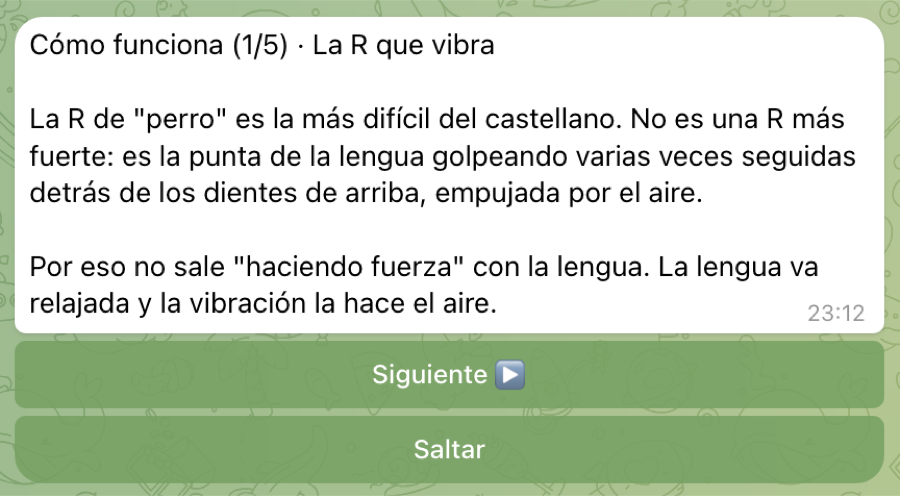
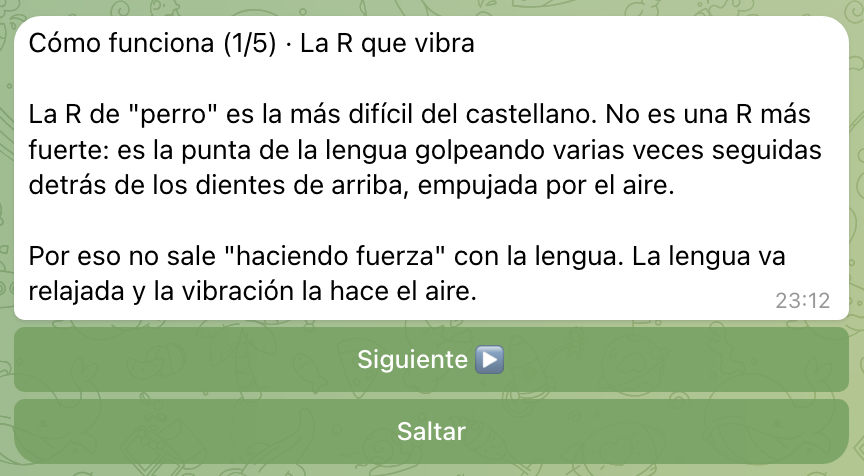
Landing: mostrar las capturas sin marco para evitar el efecto fantasma

diff --git a/site/index.html b/site/index.html
@@ -86,13 +86,12 @@ h1 em{font-style:normal;color:var(--accent)}
 .checks svg{flex:none;width:26px;height:26px;margin-top:1px;stroke:var(--accent);fill:none;stroke-width:2.4;stroke-linecap:round;stroke-linejoin:round}
 
 /* Capturas del bot */
-.shots{display:grid;gap:44px 36px;margin-top:56px}
+.shots{display:grid;gap:44px 36px;margin-top:56px;align-items:start}
 @media(min-width:760px){.shots{grid-template-columns:1fr 1fr}}
 .shot{margin:0}
 @media(min-width:760px){.shot:last-child:nth-child(odd){grid-column:1/-1;justify-self:center;width:calc(50% - 18px)}}
-.frame{height:500px;background:#a3bf94;border-radius:22px;display:flex;align-items:center;justify-content:center;
-  padding:18px;overflow:hidden;box-shadow:0 22px 40px -26px rgba(14,31,26,.55)}
-.frame img{display:block;max-width:100%;max-height:100%;width:auto;height:auto;border-radius:14px}
+.shotimg{display:block;width:100%;height:auto;border-radius:20px;box-shadow:0 22px 40px -26px rgba(14,31,26,.55)}
+.mockbg{background:#a3bf94;border-radius:20px;padding:22px 18px;display:flex;justify-content:center;box-shadow:0 22px 40px -26px rgba(14,31,26,.55)}
 .tgmock{width:100%;max-width:330px;font-size:.7rem;line-height:1.35;color:#000}
 .tgmock .bb{color:#2f7d5b;letter-spacing:-.04em}
 .tgbubble{background:#fff;border-radius:14px;padding:10px 12px 8px;white-space:pre-line;margin-bottom:5px;position:relative}
@@ -102,7 +101,6 @@ h1 em{font-style:normal;color:var(--accent)}
 .shot figcaption{margin-top:18px;color:var(--muted);font-size:1rem;line-height:1.55}
 .shot figcaption strong{display:block;color:var(--ink);font-size:1.15rem;margin-bottom:4px;letter-spacing:-.01em}
 .shots-note{margin:36px 0 0;text-align:center}
-@media(max-width:759px){.frame{height:auto;aspect-ratio:1/.9;padding:12px}}
 
 /* Email */
 .mail{text-align:center;max-width:680px;margin:0 auto}
@@ -218,27 +216,27 @@ footer a{color:#fff;font-weight:600;text-underline-offset:4px}
   <div class="wrap">
     <div class="shots">
       <figure class="shot">
-        <div class="frame"><img src="img/como-funciona.png" alt="Pantalla del bot que explica cómo funciona la R que vibra, con botones Siguiente y Saltar" loading="lazy"></div>
+        <img class="shotimg" src="img/como-funciona.png" alt="Pantalla del bot que explica cómo funciona la R que vibra, con botones Siguiente y Saltar" loading="lazy" width="900">
         <figcaption><strong>Primero entendés cómo funciona</strong>Cinco pantallas cortas explican qué hace la lengua en la R que vibra, antes de practicar.</figcaption>
       </figure>
       <figure class="shot">
-        <div class="frame"><img src="img/test.png" alt="Pantalla del bot con la pregunta del test inicial y cinco botones de respuesta" loading="lazy"></div>
+        <img class="shotimg" src="img/test.png" alt="Pantalla del bot con la pregunta del test inicial y cinco botones de respuesta" loading="lazy" width="900">
         <figcaption><strong>Un test para saber por dónde empezar</strong>Una pregunta sobre cómo te sale hoy la R, sin diagnóstico y con opción de saltarla.</figcaption>
       </figure>
       <figure class="shot">
-        <div class="frame"><img src="img/menu-hoy.png" alt="Menú del bot con la práctica de hoy, su objetivo y las nueve prácticas" loading="lazy"></div>
+        <img class="shotimg" src="img/menu-hoy.png" alt="Menú del bot con la práctica de hoy, su objetivo y las nueve prácticas" loading="lazy" width="900">
         <figcaption><strong>Cada día, una sola cosa para hacer</strong>La práctica de hoy con su objetivo, y las nueve prácticas siempre abiertas.</figcaption>
       </figure>
       <figure class="shot">
-        <div class="frame"><img src="img/practica.png" alt="Pantalla de la práctica 1 del bot con sílabas para repetir y botones Empecé, Ver teoría, Modo memoria y Si no sale" loading="lazy"></div>
+        <img class="shotimg" src="img/practica.png" alt="Pantalla de la práctica 1 del bot con sílabas para repetir y botones Empecé, Ver teoría, Modo memoria y Si no sale" loading="lazy" width="900">
         <figcaption><strong>Una línea, varias veces, lento</strong>Cada práctica trae sus sílabas listas para repetir, con teoría y modo memoria a un toque.</figcaption>
       </figure>
       <figure class="shot">
-        <div class="frame"><img src="img/si-no-sale.png" alt="Pantalla del bot con una ruta alternativa para conseguir el sonido, con pasos numerados y botones para pasar a la siguiente" loading="lazy"></div>
+        <img class="shotimg" src="img/si-no-sale.png" alt="Pantalla del bot con una ruta alternativa para conseguir el sonido, con pasos numerados y botones para pasar a la siguiente" loading="lazy" width="900">
         <figcaption><strong>Si un paso no sale, hay otro camino</strong>Rutas distintas al mismo sonido: probás una varios días y, si no funciona, pasás a la siguiente.</figcaption>
       </figure>
       <figure class="shot">
-        <div class="frame"><div class="tgmock" role="img" aria-label="Recreación de la pantalla Mi progreso del bot, con datos de ejemplo: total de minutos, racha, minutos por semana y prácticas superadas">
+        <div class="mockbg"><div class="tgmock" role="img" aria-label="Recreación de la pantalla Mi progreso del bot, con datos de ejemplo: total de minutos, racha, minutos por semana y prácticas superadas">
           <div class="tgbubble">Mi progreso
 
 ⏱ Total: 3 h 20 min
@@ -266,7 +264,7 @@ Habla: escalón 1 de 5<span class="tgtime">23:12</span></div>
         <figcaption><strong>Ves cuánto practicaste</strong>Minutos, racha, prácticas superadas, hitos y notas propias.</figcaption>
       </figure>
       <figure class="shot">
-        <div class="frame"><img src="img/ajustes.png" alt="Pantalla de ajustes del bot con opciones para exportar o borrar datos y llevar un resumen a la consulta" loading="lazy"></div>
+        <img class="shotimg" src="img/ajustes.png" alt="Pantalla de ajustes del bot con opciones para exportar o borrar datos y llevar un resumen a la consulta" loading="lazy" width="900">
         <figcaption><strong>Tus datos y tu consulta, a mano</strong>Exportá o borrá tus datos cuando quieras y llevá un resumen a un fonoaudiólogo.</figcaption>
       </figure>
     </div>
